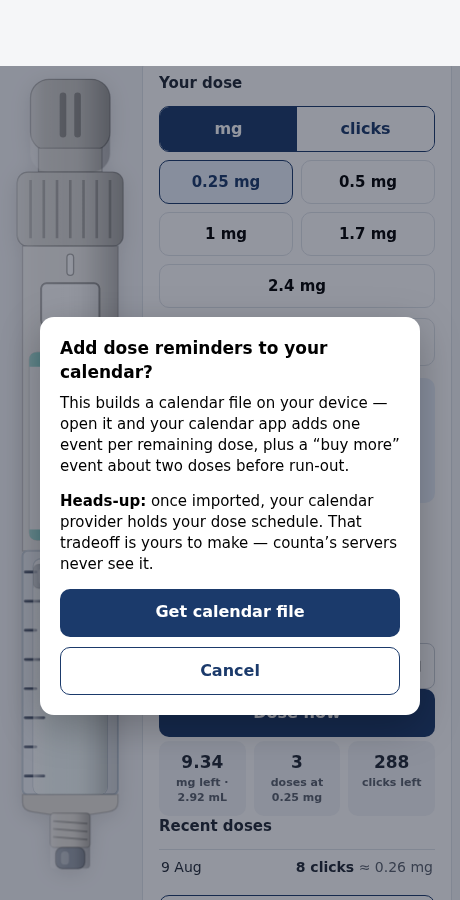
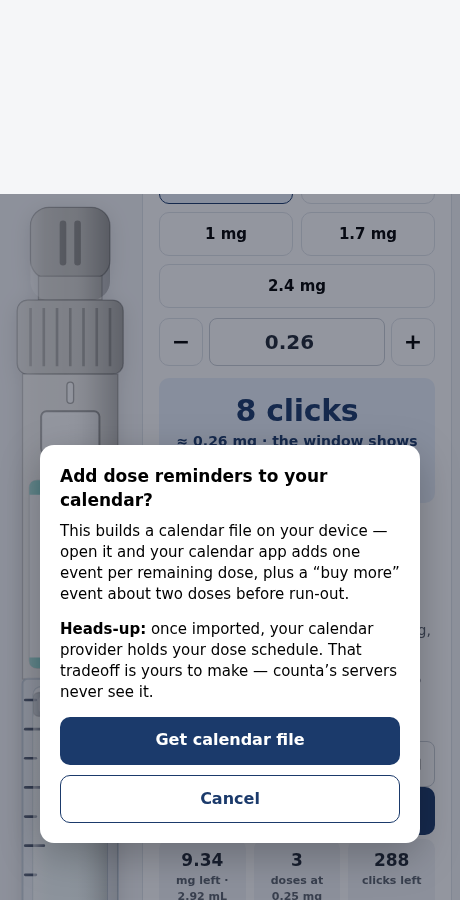
Document the forecast and the dosing time it reads
The data map now names the recorded time of day among the encrypted
fields, including the condition — only a dose entered as today gets one,
because a dose entered for last Tuesday was not taken at this moment and
the calendar sets real reminders from this field.

design-notes records the one-function rule and why the time is stored as
wall clock rather than an instant. The tour gains a screenshot, which
needed a new shot: the forecast only exists once there is a dose to count
forward from, and the journey photographed the dose screen before that.

Part of #37.

diff --git a/spec/system/screenshots_spec.rb b/spec/system/screenshots_spec.rb
@@ -60,6 +60,9 @@ RSpec.describe "Screenshots", type: :system, if: ENV["SCREENSHOTS"] == "1" do
     shot("07-confirm-dose")
     within("#confirm-dlg") { click_button "Yes, I dosed" }
     expect(page).to have_css("#history li strong", wait: 10)
+    # The forecast only exists once there's a dose to count forward from, so
+    # the tour's shot of it has to come after one (#37).
+    shot("06b-next-dose-forecast", height: 1060)
 
     click_button "Add dose reminders to calendar"
     expect(page).to have_css("#ics-dlg[open]")

diff --git a/docs/data-privacy.md b/docs/data-privacy.md
@@ -32,7 +32,7 @@ No cross-account blast radius: every account has its own DEK.
 ## Data map
 
 ### Encrypted (inside the per-pen blob) **[decided]**
-One `pens` row per pen with a single encrypted payload containing: pen details as the user sees them (product, nickname, capacity, total clicks, batch, expiry), full dose log (dose dates — including backdated — clicks, units), dose frequency, per-pen settings, the pen's **dose plan** (see below), and the pen's registry tokens (see below).
+One `pens` row per pen with a single encrypted payload containing: pen details as the user sees them (product, nickname, capacity, total clicks, batch, expiry), full dose log (dose dates — including backdated — clicks, units, and for a dose recorded as today, the rounded local time of day it was recorded at), dose frequency, per-pen settings, the pen's **dose plan** (see below), and the pen's registry tokens (see below).
 
 **Dose plans (titration ladders)** live inside that same blob, as a copy per pen carrying a shared `plan.id` and a monotonic `rev` — never in a column, and never in an account-level record. The plan is a sequence of `{units, doses}` steps plus the citation it was transcribed from. Per-pen copies rather than one account-level plan because a plan routinely spans pens (a Wegovy pen holds four doses and a step is four doses), so this way each archived pen keeps the plan it was actually used under — a free audit trail for a future prescriber export — and a formulation switch needs no modelling at all. The tradeoff, accepted: concurrent pens can hold copies edited on different devices, resolved by highest `rev` in the 409 handler. Migrating later to an account-level blob stays possible and lossless (read the highest-`rev` copy per id); the reverse would have to invent history that was never recorded. **Nothing new is plaintext:** no column, no index, no endpoint, and no "has a plan" flag — a health-status boolean would be the first plaintext health field in the system, and if a server-side feature ever needs one it goes through the opt-in `reminder_escrows` pattern above. Blob length is bucketed to 4 KiB before encryption, and a plan is a few hundred bytes, so it usually changes nothing an observer can see — but "usually" is the honest word: a blob already sitting near a bucket boundary will cross into the next one, exactly as it would from a few more doses. The guarantee the padding gives is bucket granularity, not a fixed size, and a one-bucket step is indistinguishable from ordinary history growth. **[decided 2026-08-09, issue #21]**
 

diff --git a/docs/design-notes.md b/docs/design-notes.md
@@ -60,6 +60,13 @@ Feature tracking lives in [GitHub issues](https://github.com/abradner/counta/iss
 
 Added 2026-08-09 with the dose plan (#21): **no multi-injection dosing.** The AU product information's top Wegovy maintenance dose is 7.2 mg given as *three separate 2.4 mg injections*. That is not a dial position — it is a procedure, 222 clicks against a 74-click dial, and modelling it means counta reasoning about how many injections make a dose. We're a click counter, not a medical practitioner. The shipped preset stops at 2.4 mg, and a plan step is one dial of one pen.
 
+## Next-dose forecast (#37)
+
+- **One notion of dosing time, in one function.** `dosing_time.js#dosingTime` is what both the on-screen forecast and the calendar export call. Pressing "Dose now" is the best observation counta can get without asking a question nobody wants — the person is dosing as they press it — so that moment, rounded to the half hour, is stored against the dose as a wall-clock `HH:MM` and preferred everywhere. With nothing observed yet it falls back to #14's original proxy, the moment you're here now, and the copy says it's a guess.
+- **Stored as wall-clock, never an instant.** "18:00" stays 18:00 across a daylight-saving change and across a move to another timezone, which an instant would not (§9.6) — the same reason #14's ICS uses floating local time.
+- **Backdated doses record no time.** A dose entered for last Tuesday wasn't taken at this moment; stamping the present on it would invent an observation that the calendar then sets real reminders from.
+- **The amount degrades honestly.** The plan supplies it while the ladder has something left to say; otherwise the copy states it's a repeat of the last dose rather than implying a plan exists.
+
 ## Dose plans (#21)
 
 - A plan is **transcription, never suggestion.** counta ships one preset per listed product — the manufacturer's published escalation, labelled with the document and revision it came from — and it is never applied automatically: the setup select defaults to "No plan". counta does not generate, rank, smooth or comment on a ladder, and never tells a user theirs differs from the preset. `spec/i18n_spec.rb` enforces the wording half of that mechanically, with a positive control.

diff --git a/docs/ui-tour.md b/docs/ui-tour.md
@@ -91,6 +91,22 @@ under the readout says which step that is, and "doses left" becomes doses left
 *at this amount* — the tile names the amount, because counta stops forecasting
 at a step boundary rather than guessing what the next strength's pen holds.
 
+Once there's a dose to count forward from, two more lines appear: when the next
+one falls due, and what it will be. The day is the last dose plus the pen's
+cadence; the amount comes from the plan when there is one, and otherwise says
+plainly that it's a repeat of last time rather than implying a schedule nobody
+set up.
+
+The **time** is the same proxy the calendar uses, and both read it from one
+function so they can't name different times. Pressing "Dose now" is someone
+dosing as they press it, so that moment — rounded to the half hour — is kept
+with the dose and read back here. Before counta has seen a dose it guesses from
+the clock and says that's what it's doing. Backdated doses record no time: a
+dose entered for last Tuesday wasn't taken at this moment, and the calendar
+sets real reminders from this.
+
+![Next-dose forecast](screenshots/06b-next-dose-forecast.png)
+
 | Dose screen | Confirm | Calendar export |
 |---|---|---|
 | ![Dose screen](screenshots/06-dose-screen.png) | ![Confirm](screenshots/07-confirm-dose.png) | ![Calendar export](screenshots/08-calendar-export.png)|
